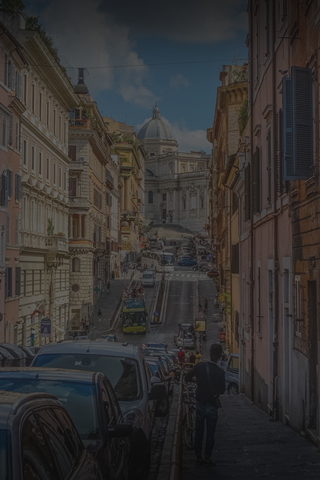
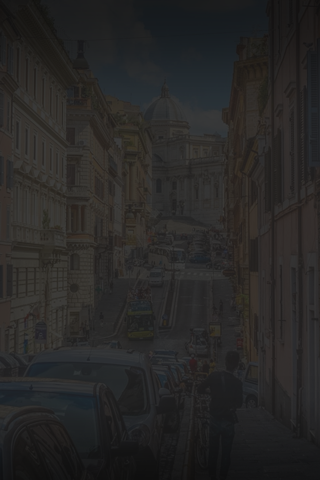
增加爱心动画 替换背景图片

diff --git a/JiaMian/MessageDetailViewController.m b/JiaMian/MessageDetailViewController.m
@@ -125,25 +125,15 @@
     if (_selectedMsg.background_url && _selectedMsg.background_url.length > 0)
     {
         [myHeader.bgImageView setImageWithURL:[NSURL URLWithString:_selectedMsg.background_url] placeholderImage:nil];
-        UIImage* maskImage = [UIImage imageNamed:@"blackalpha.png"];
-        [myHeader.maskImageView setBackgroundColor:[UIColor colorWithPatternImage:maskImage]];
     }
     else
     {
-        [myHeader.maskImageView setBackgroundColor:[UIColor clearColor]];
         [myHeader.bgImageView setImage:nil];
-        
         int bgImageNo = self.selectedMsg.background_no2;
-        if (bgImageNo >=1 && bgImageNo <= 23)
-        {
-            [myHeader setBackgroundColor:UIColorFromRGB(COLOR_ARR[bgImageNo])];
-        }
-        else
-        {
-            NSString* imageName = [NSString stringWithFormat:@"bg_drawable_%d.png", bgImageNo];
-            UIColor* picColor = [UIColor colorWithPatternImage:[UIImage imageNamed:imageName]];
-            [myHeader setBackgroundColor:picColor];
-        }
+        NSString* imageName = [NSString stringWithFormat:@"bg_drawable_%d@2x.jpg", bgImageNo];
+        [myHeader.bgImageView setImage:[UIImage imageNamed:imageName]];
+        
+        
         [myHeader.commentImageView setImage:[UIImage imageNamed:@"comment_white"]];
         [myHeader.areaLabel setTextColor:UIColorFromRGB(0xffffff)];
         [myHeader.commentNumLabel setTextColor:UIColorFromRGB(0xffffff)];

diff --git a/JiaMian/HomePageViewController.m b/JiaMian/HomePageViewController.m
@@ -28,10 +28,10 @@ static NSString* msgCellIdentifier = @"MsgTableViewCellIdentifier";
     UIView* parentView;
     UIImageView* plusImageView;
     BOOL flag; //是否点击加号
-    
     int messageType;
     NSMutableArray* hotMsgArray;
     NSMutableArray* latestMsgArray;
+    int i;//爱心点赞特效
 }
 @property (strong, nonatomic) UIView* moreBtnView;
 @property (strong, nonatomic) UIButton* fayanBtn;
@@ -550,7 +550,20 @@ static NSString* msgCellIdentifier = @"MsgTableViewCellIdentifier";
     if (currentMsg.has_like)
         return;
     
-    [tappedCell.likeImageView setImage:[UIImage imageNamed:@"ic_liked"]];
+    
+    //爱心特效
+    tappedCell.likeImageView.layer.contents = (id)[UIImage imageNamed:(i%2==0?@"2":@"1")].CGImage;
+    CAKeyframeAnimation *k = [CAKeyframeAnimation animationWithKeyPath:@"transform.scale"];
+    k.values = @[@(0.1),@(1.0),@(1.5)];
+    k.keyTimes = @[@(0.0),@(0.5),@(0.8),@(1.0)];
+    k.calculationMode = kCAAnimationLinear;
+    
+    i++;
+    [tappedCell.likeImageView.layer addAnimation:k forKey:@"SHOW"];
+    [tappedCell.likeImageView setImage:[UIImage imageNamed:@"ic_liked.png"]];
+    
+    
+    
     tappedCell.likeNumLabel.text = [NSString stringWithFormat:@"%d", currentMsg.likes_count + 1];
     
     MessageModel* message = [[NetWorkConnect sharedInstance] messageLikeByMsgId:currentMsg.message_id];

diff --git a/JiaMian/HuiFuViewController.m b/JiaMian/HuiFuViewController.m
@@ -137,6 +137,7 @@ static NSString* kCollectionViewCellIdentifier = @"HuiFuCell";
         return;
     MessageDetailViewController* msgDetailVC = [self.storyboard instantiateViewControllerWithIdentifier:@"MessageDetailVCIdentifier"];
     msgDetailVC.selectedMsg = message;
+    msgDetailVC.hidesBottomBarWhenPushed = YES;
     [self.navigationController pushViewController:msgDetailVC animated:YES];
     
     

diff --git a/JiaMian/RegAndLoginViewController.m b/JiaMian/RegAndLoginViewController.m
@@ -57,6 +57,7 @@
     [_passWordTF setDelegate:self];
     
     [self.scrollView setContentSize:CGSizeMake(SCREEN_WIDTH, SCREEN_HEIGHT)];
+    
     [self.scrollView setScrollEnabled:YES];
     UITapGestureRecognizer *tapGestureRecognizer = [[UITapGestureRecognizer alloc] initWithTarget:self action:@selector(keyboardHide:)];
     tapGestureRecognizer.cancelsTouchesInView = NO;
